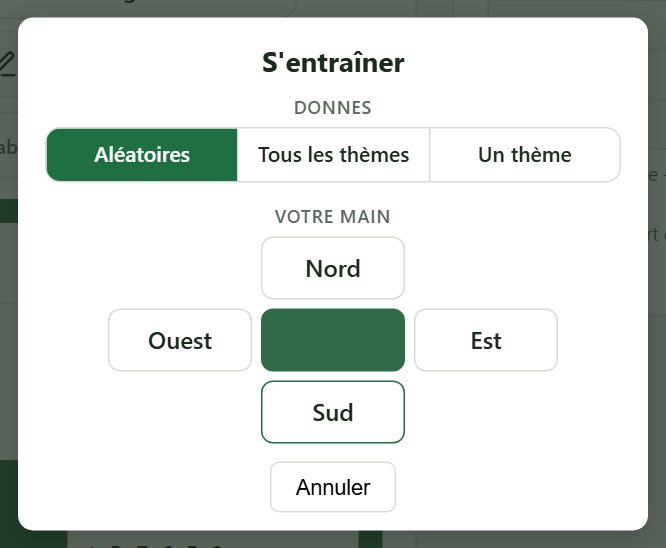
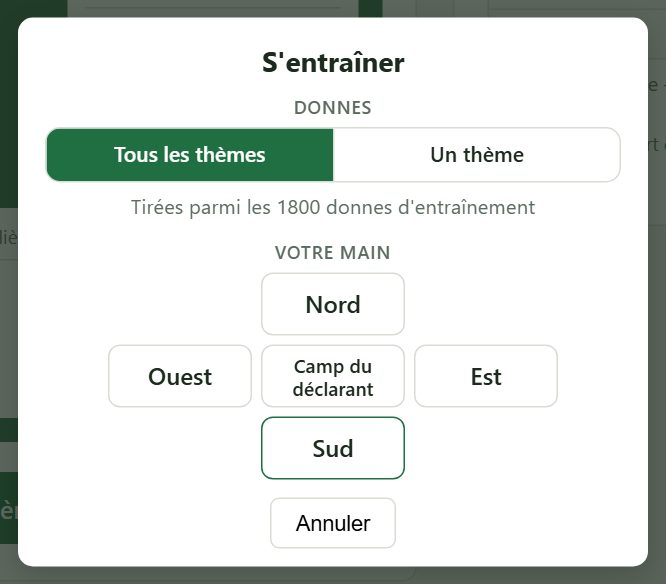
Entraînement : le bouton S'entraîner dans son bloc, sous la donne
S'entraîner était la troisième des quatre commandes de la donne, au même rang
que Modifier : une seconde entrée de la page, aussi discrète que les
utilitaires. Il quitte la rangée et prend son propre bloc sous celui de la
donne, avec le gabarit du bouton qui clôt la composition (Afficher les
enchères) — plein, vert, arrondi — puisqu'il en est la seconde action.

- index.html : le bouton sort de .deal-cmds ; une section .panel #train-panel
  le reçoit sous #input-panel, avec les classes cmd-primary cta-btn.
- style.css : la grille de l'espace de travail (≥ 1100 px) passe en
  grid-template-areas, la donne et l'entraînement dans la colonne de gauche,
  l'entraînement sous la donne, le panneau à onglets couvrant les deux lignes
  à droite. Le bloc est tu à l'impression, comme la rangée d'Afficher les
  enchères.
- La rangée des commandes de la donne compte trois boutons : les commentaires
  qui parlaient de quatre et de grille 2 × 2 sont mis à jour. La grille de
  deux colonnes est conservée : une troisième colonne serrerait Donne
  aléatoire jusqu'à rogner son libellé (mesuré : 139 px de contenu pour 133 px
  de bouton).
- Mode d'emploi et tutoriel : « après Partager » devient « dans son bloc sous
  la donne ».
- Captures du tutoriel reprises par tools/tutorial/run.ps1 (README), 24 images
  sur 32 : les huit autres encadrent des zones que le déplacement ne touche
  pas.

diff --git a/cli/index.html b/cli/index.html
@@ -270,8 +270,8 @@
            sans que rien ne dise à quoi elle sert. -->
       <p class="panel-intro" data-i18n="intro">Composez une donne — l'application déroule les enchères du système français et les commente, enchère par enchère.</p>
       <div class="row row-centered" id="deal-actions">
-        <!-- Les quatre commandes de la donne, sur une rangée (une grille 2 × 2
-             sur téléphone) ; Donneur et Vulnérabilité en dessous. -->
+        <!-- Les trois commandes de la donne, sur une rangée (une grille de deux
+             colonnes sur téléphone) ; Donneur et Vulnérabilité en dessous. -->
         <div class="deal-cmds">
           <!-- Barre de commandes à libellés. La donne aléatoire, l'action la plus
                fréquente, est à un clic ; les autres façons d'obtenir une donne
@@ -314,10 +314,6 @@
                       aria-expanded="false" aria-controls="pbn-details"></button>
             </div>
           </div>
-          <!-- S'entraîner : on choisit sa main, puis on enchérit sur des donnes
-               tirées au hasard, dans une fenêtre à part (voir « s'entraîner »
-               dans app.js). -->
-          <button id="train-btn" type="button" class="cmd-btn cmd-labeled"></button>
           <!-- Bascule entre la table en lecture et la table en édition (voir
                « lecture et édition » dans app.js). Libellé par renderDealMode. -->
           <button id="edit-btn" type="button" class="cmd-btn cmd-labeled" aria-pressed="false"></button>
@@ -471,6 +467,17 @@
         </div>
       </div>
 
+    </section>
+
+    <!-- S'entraîner, dans son propre bloc sous la donne : c'est la seconde
+         entrée de la page, et son bouton porte le gabarit de celui qui clôt la
+         composition (.cta-btn) pour se voir d'aussi loin que lui. On y choisit
+         sa main, puis on enchérit sur des donnes thématiques, dans une fenêtre
+         à part (voir « s'entraîner » dans app.js). -->
+    <section class="panel" id="train-panel">
+      <div class="row row-centered">
+        <button id="train-btn" type="button" class="cmd-btn cmd-primary cmd-labeled cta-btn"></button>
+      </div>
     </section>
 
     <!-- Le panneau de droite : un onglet par usage de la donne. Onglets à la
@@ -683,7 +690,7 @@
 
         <h3>6. S'entraîner</h3>
         <ul class="help-icons">
-          <li><span data-help-icon="quiz"></span><span>Le bouton <b>S'entraîner</b>, après Partager, ouvre le choix de <b>votre main</b> (Nord, Est, Sud ou Ouest, ou au centre <b>Camp du déclarant</b> : à chaque donne, votre main est tirée au hasard dans le camp qui joue le contrat), puis la table d'entraînement. Il choisit aussi les <b>donnes</b> : <b>Tous les thèmes</b> (tirées parmi toutes les donnes thématiques) ou <b>Un thème</b> (celui de la liste, avec son nombre de donnes) ; une phrase sous le choix rappelle d'où viendront les donnes. Seules les donnes dont le fichier porte l'enchère entrent dans l'entraînement : à la table, l'application relit cette enchère au lieu d'appeler le moteur. Si un thème est choisi sur la page (bandeau du thème), il est repris d'office. Une donne thématique ne revient pas dans la même séance : quand toutes ont été jouées, « Plus de donnes disponibles » s'affiche. Le donneur, la vulnérabilité et les bornes choisis s'appliquent. Le thème de la donne n'est pas affiché à la table, pour ne rien souffler ; le score de <b>Terminer</b> le cite. Une fois l'enchère finie, le <b>tableau du PAR</b> (levées au double mort) s'affiche à côté de la table, la case du contrat atteint encadrée, avec son résultat.</span></li>
+          <li><span data-help-icon="quiz"></span><span>Le bouton <b>S'entraîner</b>, dans son bloc sous la donne, ouvre le choix de <b>votre main</b> (Nord, Est, Sud ou Ouest, ou au centre <b>Camp du déclarant</b> : à chaque donne, votre main est tirée au hasard dans le camp qui joue le contrat), puis la table d'entraînement. Il choisit aussi les <b>donnes</b> : <b>Tous les thèmes</b> (tirées parmi toutes les donnes thématiques) ou <b>Un thème</b> (celui de la liste, avec son nombre de donnes) ; une phrase sous le choix rappelle d'où viendront les donnes. Seules les donnes dont le fichier porte l'enchère entrent dans l'entraînement : à la table, l'application relit cette enchère au lieu d'appeler le moteur. Si un thème est choisi sur la page (bandeau du thème), il est repris d'office. Une donne thématique ne revient pas dans la même séance : quand toutes ont été jouées, « Plus de donnes disponibles » s'affiche. Le donneur, la vulnérabilité et les bornes choisis s'appliquent. Le thème de la donne n'est pas affiché à la table, pour ne rien souffler ; le score de <b>Terminer</b> le cite. Une fois l'enchère finie, le <b>tableau du PAR</b> (levées au double mort) s'affiche à côté de la table, la case du contrat atteint encadrée, avec son résultat.</span></li>
         </ul>
         <ul>
           <li>Votre main est toujours <b>en bas</b>, face visible ; les trois autres joueurs ont le dos tourné (à gauche, celui qui parle après vous ; en face, votre partenaire). Au centre, la boîte des enchères : les sièges vulnérables y sont en rouge, et un <b>?</b> marque le tour de parole. La plaque du joueur qui parle s'éclaire en jaune.</li>
@@ -808,7 +815,7 @@
 
         <h3>6. Practising</h3>
         <ul class="help-icons">
-          <li><span data-help-icon="quiz"></span><span>The <b>Practise</b> button, after Share, opens the choice of <b>your hand</b> (North, East, South or West, or in the middle <b>Declaring side</b>: for each deal, your hand is drawn at random in the side that plays the contract), then the practice table. It also picks the <b>deals</b>: <b>All topics</b> (drawn among all the themed deals) or <b>One topic</b> (the one in the list, with its number of deals); a line under the choice says where the deals will come from. Only deals whose file carries the auction enter the practice session: at the table the app reads that auction back instead of calling the engine. If a topic is chosen on the page (topic banner), it is picked up at once. A themed deal never comes back in the same session: once all have been played, “No more deals available” is shown. The dealer, vulnerability and bounds you chose apply. The deal's topic is not shown at the table, so as to give nothing away; the <b>Finish</b> score names it. Once the auction is over, the <b>PAR table</b> (double-dummy tricks) shows beside the table, with the contract reached outlined and its result.</span></li>
+          <li><span data-help-icon="quiz"></span><span>The <b>Practise</b> button, in its own block under the deal, opens the choice of <b>your hand</b> (North, East, South or West, or in the middle <b>Declaring side</b>: for each deal, your hand is drawn at random in the side that plays the contract), then the practice table. It also picks the <b>deals</b>: <b>All topics</b> (drawn among all the themed deals) or <b>One topic</b> (the one in the list, with its number of deals); a line under the choice says where the deals will come from. Only deals whose file carries the auction enter the practice session: at the table the app reads that auction back instead of calling the engine. If a topic is chosen on the page (topic banner), it is picked up at once. A themed deal never comes back in the same session: once all have been played, “No more deals available” is shown. The dealer, vulnerability and bounds you chose apply. The deal's topic is not shown at the table, so as to give nothing away; the <b>Finish</b> score names it. Once the auction is over, the <b>PAR table</b> (double-dummy tricks) shows beside the table, with the contract reached outlined and its result.</span></li>
         </ul>
         <ul>
           <li>Your hand is always <b>at the bottom</b>, face up; the other three players' cards are face down (on your left, the player who bids after you; opposite, your partner). In the middle, the auction box: vulnerable seats are shown in red, and a <b>?</b> marks whose turn it is. The plate of the player to bid lights up in yellow.</li>

diff --git a/cli/style.css b/cli/style.css
@@ -465,7 +465,7 @@ button:disabled { opacity: .6; cursor: wait; }
 }
 .cmd-btn svg { width: 21px; height: 21px; }
 
-/* Les commandes de la donne : les quatre boutons sur une rangée, Donneur et
+/* Les commandes de la donne : les trois boutons sur une rangée, Donneur et
    Vulnérabilité sur la suivante. Chaque champ est une pastille de la hauteur
    et de l'arrondi des boutons : le libellé à gauche, séparé d'un filet, la
    valeur à droite avec sa flèche. */
@@ -536,9 +536,10 @@ button:disabled { opacity: .6; cursor: wait; }
   transform: rotate(45deg);
   pointer-events: none;
 }
-/* Quand les quatre boutons ne tiennent plus sur une ligne, ils passent en
-   grille 2 × 2 de largeurs égales plutôt que de laisser le dernier seul sur
-   la suivante ; les deux champs prennent la même grille. */
+/* Quand les trois boutons ne tiennent plus sur une ligne, ils passent en
+   grille de deux colonnes de largeurs égales — le dernier reste seul sur la
+   seconde : une troisième colonne serrerait « Donne aléatoire » jusqu'à
+   rogner son libellé. Les deux champs prennent la même grille. */
 @container (max-width: 820px) {
   .deal-cmds,
   #deal-actions .field-group {
@@ -645,7 +646,7 @@ button:disabled { opacity: .6; cursor: wait; }
 @media print {
   header, footer, dialog, #boot-loading, #engine-loading,
   button, select, .file-btn, .pbn-details,
-  #deal-select-row, #cons-actions, #bid-row, .tabs, .tab-empty { display: none !important; }
+  #deal-select-row, #cons-actions, #bid-row, #train-panel, .tabs, .tab-empty { display: none !important; }
   .tabpanel[hidden] { display: none !important; }
   body { background: #fff; }
   main { margin: 0; max-width: none; padding: 0; }
@@ -1285,8 +1286,8 @@ select:disabled { background: var(--disabled-bg); color: var(--muted); cursor: n
   .panel { padding: 12px 10px; border-radius: 8px; }
   .row { gap: 8px; }
 
-  /* Sur téléphone, les quatre boutons en grille 2 × 2, de largeurs égales ;
-     les deux champs côte à côte, sur toute la largeur. */
+  /* Sur téléphone, les trois boutons en grille de deux colonnes, de largeurs
+     égales ; les deux champs côte à côte, sur toute la largeur. */
   #deal-actions { gap: 8px; }
   #deal-actions #photo-status { text-align: center; }
 
@@ -2525,13 +2526,22 @@ select:disabled { background: var(--disabled-bg); color: var(--muted); cursor: n
    enchères se lisent en regard des mains. Sous 1100 px, il passe sous la
    table. */
 @media (min-width: 1100px) {
+  /* Trois blocs en deux colonnes : la donne et, sous elle, l'entraînement ;
+     le panneau à onglets à droite, sur les deux lignes, pour rester en vue
+     quel que soit celui des deux blocs de gauche que l'on regarde. */
   main.workspace {
     display: grid;
     grid-template-columns: minmax(0, 1.25fr) minmax(0, 1fr);
-    gap: 24px;
+    grid-template-areas:
+      "deal side"
+      "train side";
+    column-gap: 24px;
     align-items: start;
   }
+  #input-panel { grid-area: deal; }
+  #train-panel { grid-area: train; }
   .side-pane {
+    grid-area: side;
     position: sticky;
     top: 16px;
     max-height: calc(100vh - 32px);
@@ -2540,6 +2550,12 @@ select:disabled { background: var(--disabled-bg); color: var(--muted); cursor: n
   /* La table est à côté : rien à rejoindre. */
   #back-to-deal-btn { display: none; }
 }
+
+/* Le bloc de l'entraînement, sous celui de la donne : même carte, et dedans le
+   bouton de l'action au gabarit de celui qui clôt la composition (.cta-btn).
+   La rangée n'a pas les marges des autres : elle est seule dans la carte, dont
+   la marge intérieure suffit. */
+#train-panel .row { margin: 0; }
 
 /* Les onglets du panneau, en tête : un soulignement pour celui qui est
    ouvert. */
@@ -2782,7 +2798,7 @@ select:disabled { background: var(--disabled-bg); color: var(--muted); cursor: n
 
 @media (max-width: 480px) {
   .cmd-btn.cmd-labeled { padding: 0 12px; }
-  /* Sur un téléphone, la grille 2 × 2 des commandes garde tous ses libellés,
+  /* Sur un téléphone, la grille des commandes garde tous ses libellés,
      « Partager » compris : un cran plus petits, avec moins de marge. */
   .deal-cmds .cmd-btn.cmd-labeled { gap: 6px; padding: 0 8px; font-size: .88rem; }
   .deal-cmds .cmd-btn svg { width: 18px; height: 18px; }

diff --git a/cli/app.js b/cli/app.js
@@ -6452,8 +6452,8 @@ const TUTORIAL_STEPS = [
     en: ["The par", "The Par tab gives the tricks each side makes in each denomination, cards face up (double dummy).\nHover or tap a cell: the leads that hold declarer to that number of tricks, and what the others cost."],
   },
   {
-    fr: ["S'entraîner", "Le bouton S'entraîner, après Partager : choisissez les donnes (Tous les thèmes ou Un thème), puis votre main (Nord, Est, Sud ou Ouest).\nLes donnes sont celles des fichiers PBN du système qui portent leur enchère : l'enchère, ses commentaires et le contrat viennent du fichier, et le moteur n'est pas appelé. Un thème sans aucune donne de ce genre s'annonce et ne se choisit pas.\nVous ne voyez que votre main."],
-    en: ["Practise", "The Practise button, after Share: choose the deals (All topics or One topic), then your hand (North, East, South or West).\nThe deals are those of the system's PBN files that carry their auction: the auction, its comments and the contract come from the file, and the engine is not called. A topic with no such deal says so and cannot be chosen.\nYou only see your own hand."],
+    fr: ["S'entraîner", "Le bouton S'entraîner, dans son bloc sous la donne : choisissez les donnes (Tous les thèmes ou Un thème), puis votre main (Nord, Est, Sud ou Ouest).\nLes donnes sont celles des fichiers PBN du système qui portent leur enchère : l'enchère, ses commentaires et le contrat viennent du fichier, et le moteur n'est pas appelé. Un thème sans aucune donne de ce genre s'annonce et ne se choisit pas.\nVous ne voyez que votre main."],
+    en: ["Practise", "The Practise button, in its own block under the deal: choose the deals (All topics or One topic), then your hand (North, East, South or West).\nThe deals are those of the system's PBN files that carry their auction: the auction, its comments and the contract come from the file, and the engine is not called. A topic with no such deal says so and cannot be chosen.\nYou only see your own hand."],
   },
   {
     fr: ["La table", "Votre main en bas, les trois autres dos tournés ; au centre la boîte des enchères, sièges vulnérables en rouge. Les enchères des autres arrivent d'elles-mêmes.\nÀ votre tour, la boîte à enchères : un palier (1 à 7), puis une couleur ou SA ; ou Passe, X (contre), XX (surcontre). Au clavier : 1 à 7, puis C D H S N, P, X."],
